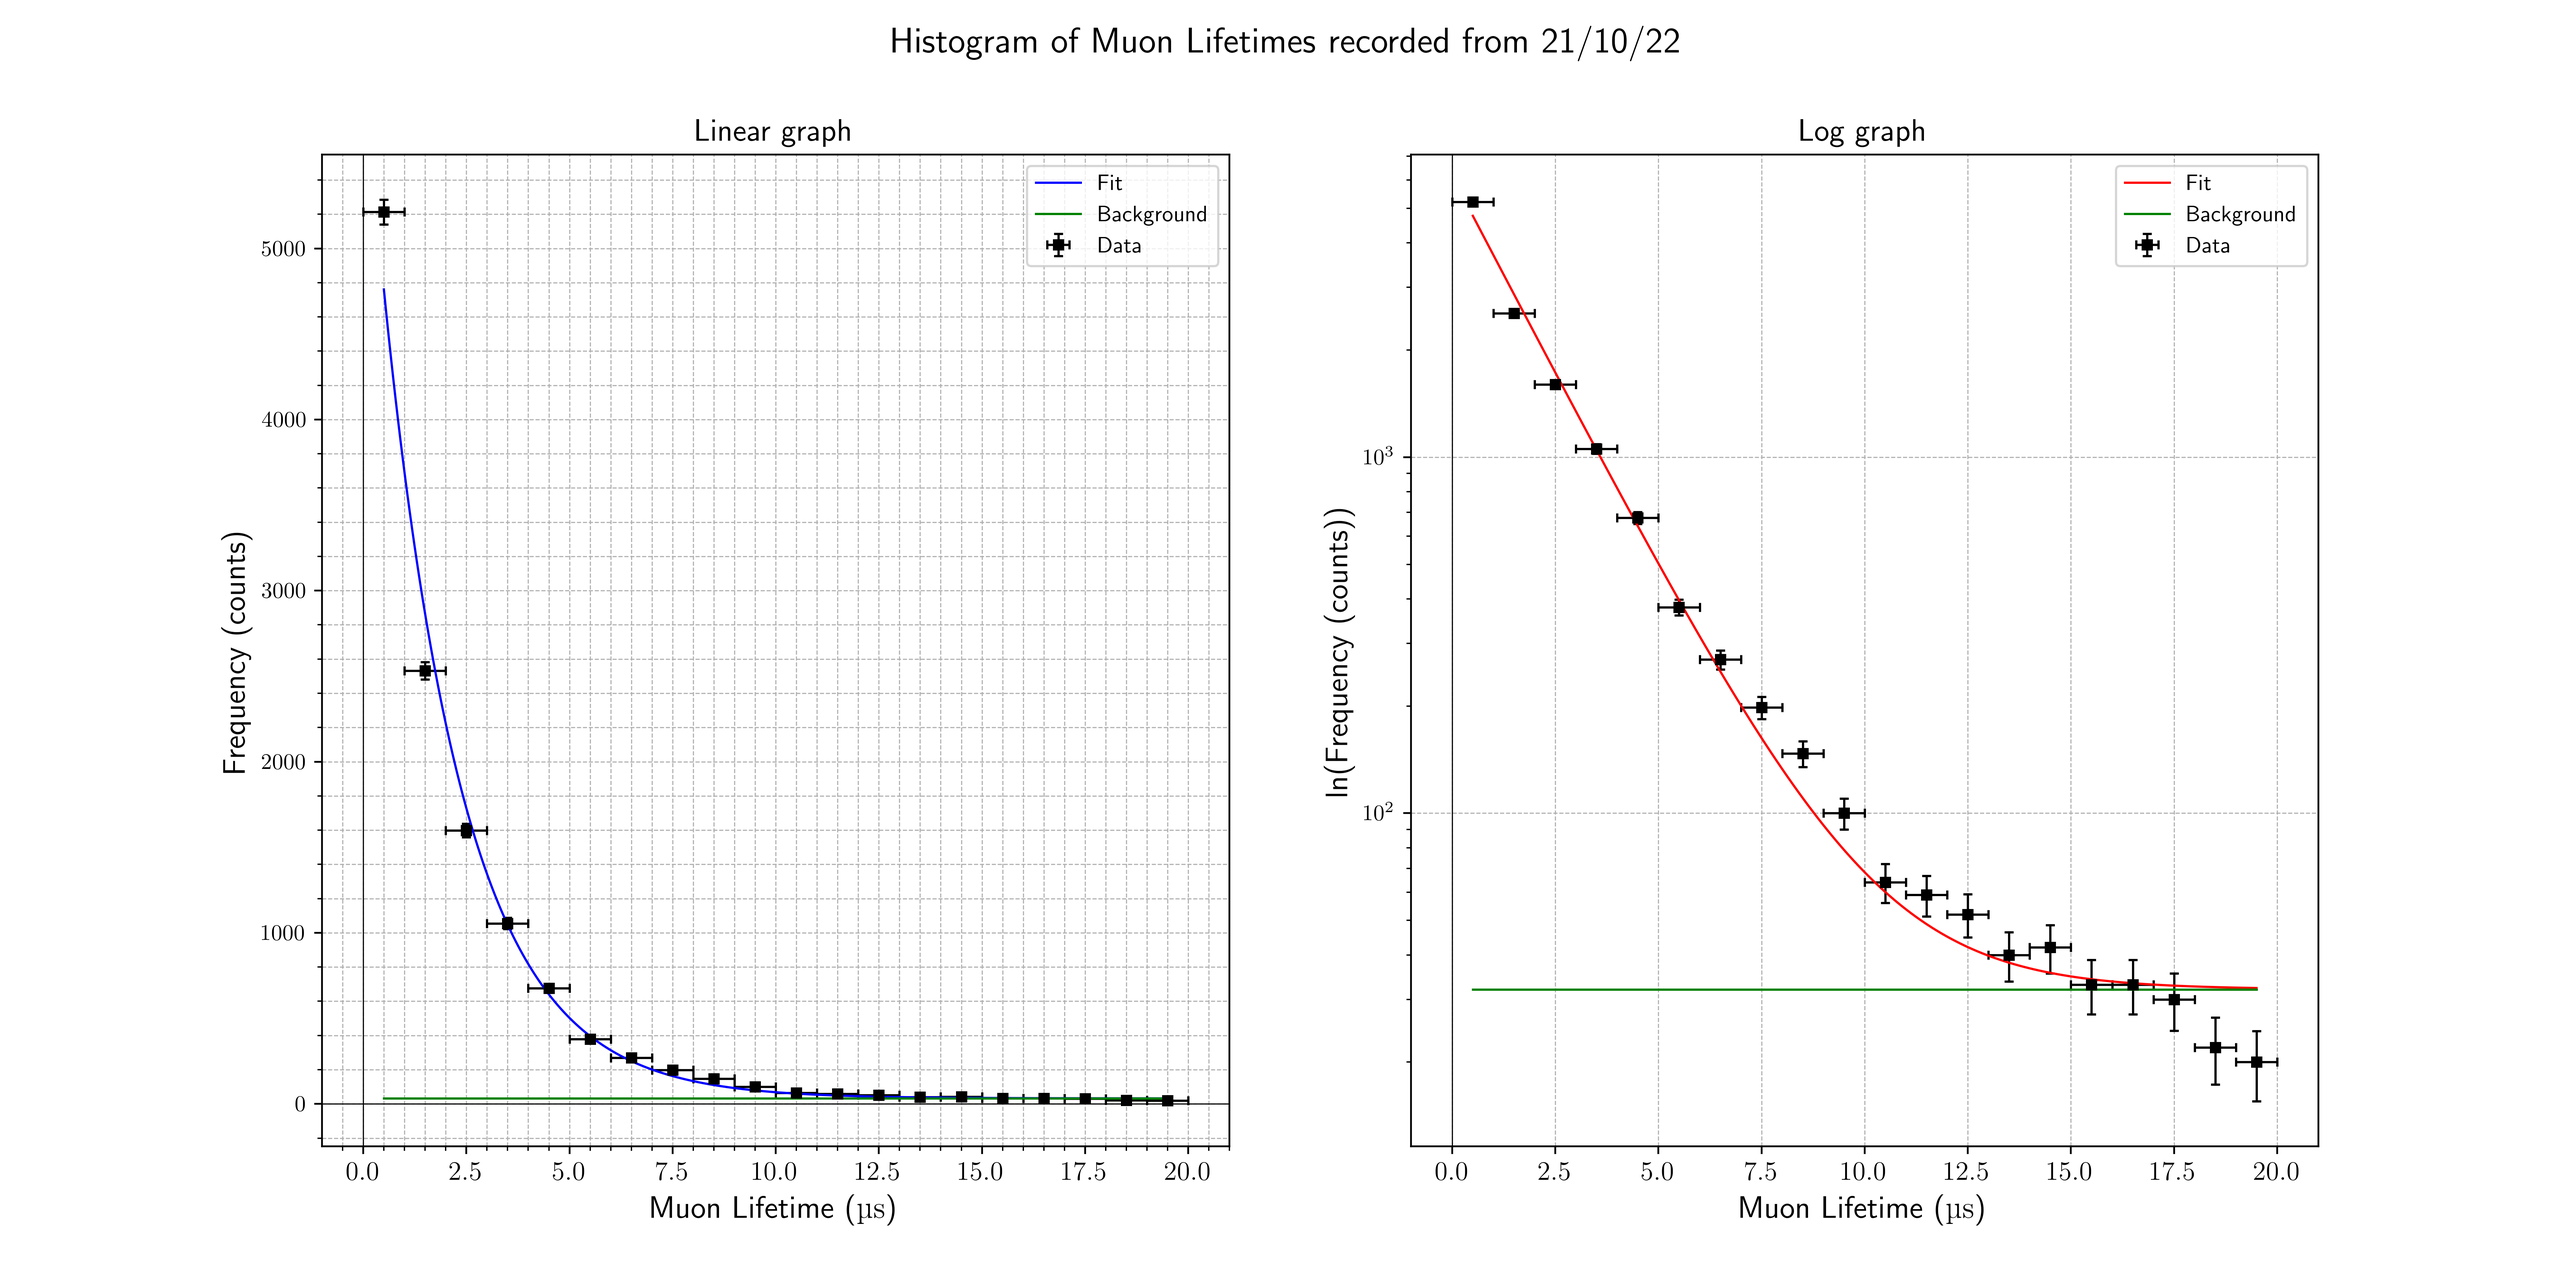
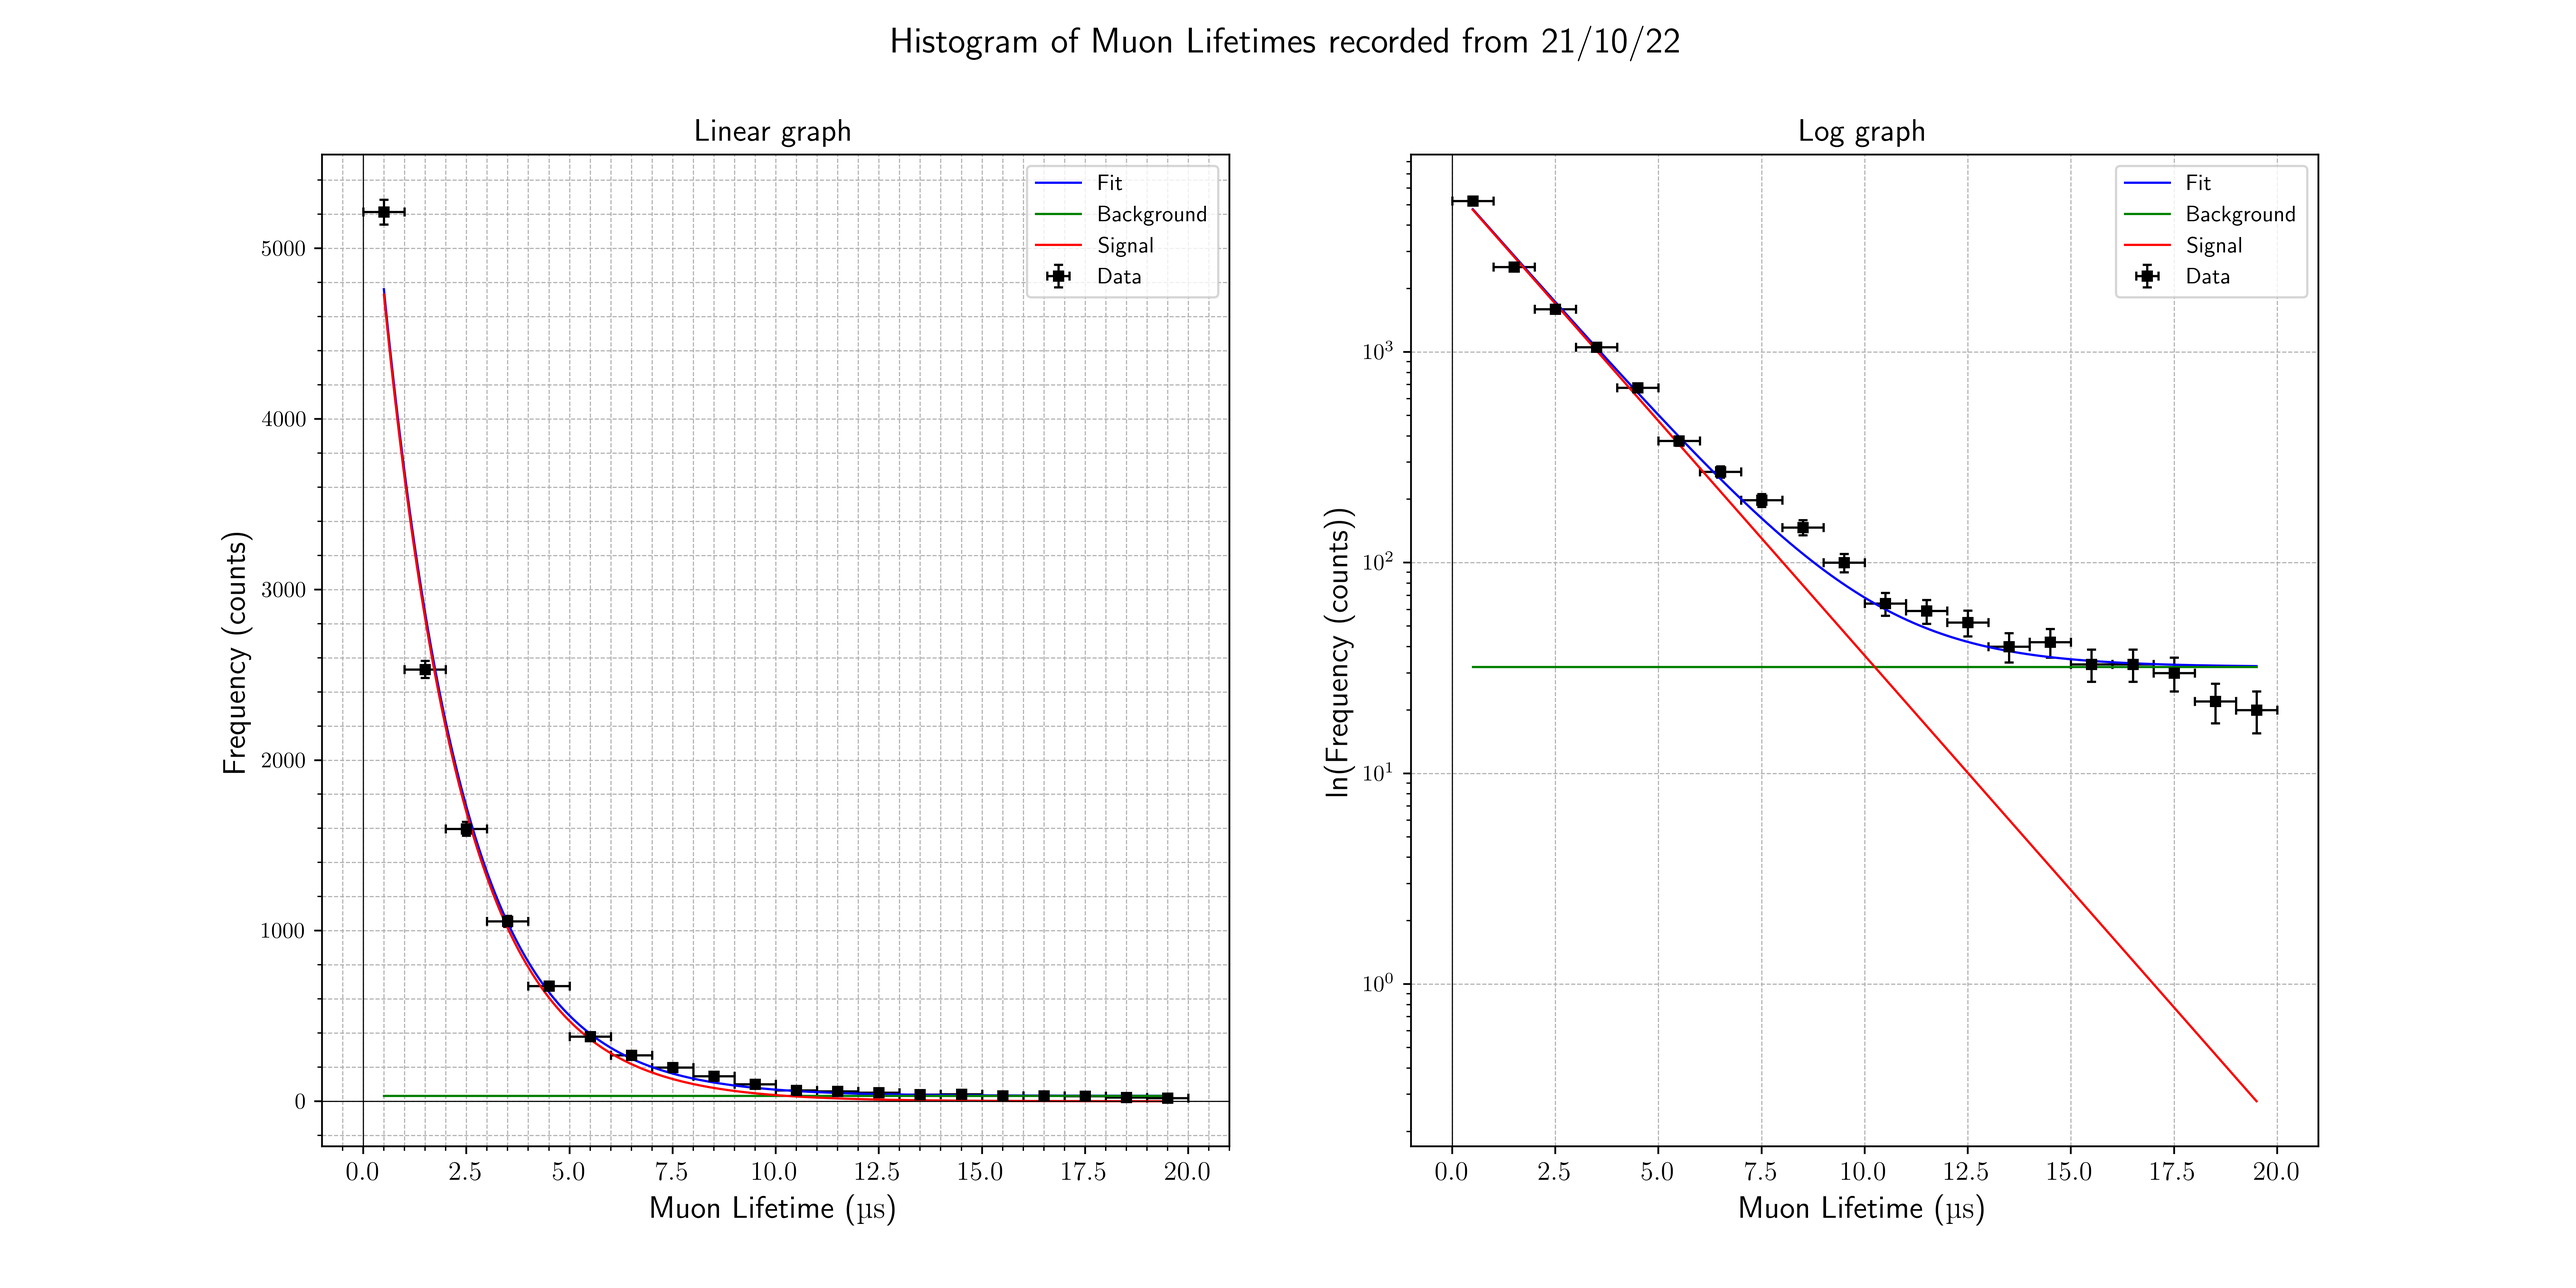
update

diff --git a/N3_Code.py b/N3_Code.py
@@ -1,5 +1,6 @@
 import numpy as np
 import matplotlib.pyplot as plt
+from matplotlib.widgets import CheckButtons
 from scipy.optimize import curve_fit
 import tkinter as tk
 from tkinter import filedialog as fd
@@ -21,17 +22,17 @@ root.update()
 root.withdraw()
 root.iconify()
 
-xColumn = 1
-yColumn = 2
+x_column = 1
+y_column = 2
 include_x_errors = True
 include_y_errors = True
-xErrColumn = 0  # Specify the column containing the x errors
-yErrColumn = 3  # Specify the column containing the y errors
+x_err_column = 0  # Specify the column containing the x errors
+y_err_column = 3  # Specify the column containing the y errors
 header = (
     False  # Does your data file contain one of more header lines (e.g. column titles)
 )
 head_lines = 0  # Enter the number of header lines in your data file
-save_graph = True  # Enter True or False only (True if you wish to save the figure)
+save_graph = True  # True if you wish to save the figure, False if not
 CSV = False  # Is the data separated by commas (True if yes - e.g. a .csv file)
 
 fig_file = "figure.png"
@@ -46,18 +47,16 @@ def fit_function(t, A0, tau, B):
         fit_function.__code__.co_varnames
     )  # This extracts the names of the parameters from the function definition
 
-    return A0 * np.exp(-t / (tau)) + B  # This is the equation to be fitted to the data
+    return A0 * np.exp(-t / (tau)) + B
 
 
 guess = (
     1000,
     2.2,
     0,
-)  # This is the initial guess for the parameters of the fit function
+)
 
-fit_function(
-    1, *guess
-)  # This is needed to generate the arguments for the next bit
+fit_function(1, *guess)
 
 
 if len(args) - 1 != len(guess):
@@ -148,9 +147,7 @@ lines = 0
 for data_line in raw_data:
     lines += 1
 raw_data.seek(0)
-# print(lines)
 
-# Create an array to store all the time values
 times = np.zeros(lines)
 
 # Read the data: store all the time values in an array
@@ -175,20 +172,20 @@ if min(y) == 0:
 
 # converts the bin "edges" in x values that correspond to the centre of the bin
 x = edges[:-1].copy()
-binWidth = x[1] - x[0]
-x += binWidth / 2  # the x values are now the centre of the bin
+bin_width = x[1] - x[0]
+x += bin_width / 2  # the x values are now the centre of the bin
 
 # y and x are now arrays of the histogram values (y) and times in microseconds (x).
 
 
-xError = np.zeros(len(x))
-xError.fill(binWidth / 2)  # the x errors are half the bin width
-yError = np.sqrt(y)  # the errors in y are the square root of the number of counts
+x_error = np.zeros(len(x))
+x_error.fill(bin_width / 2)  # the x errors are half the bin width
+y_error = np.sqrt(y)  # the errors in y are the square root of the number of counts
 
 # Performs a fit calling the numpy polyfit function (polynomial order 1):
 # If y errors are included, they will be used as weights in the fit calculation:
 if include_y_errors:  # Are y errors are included?
-    para, covar = curve_fit(fit_function, x, y, p0=guess, sigma=yError)
+    para, covar = curve_fit(fit_function, x, y, p0=guess, sigma=y_error)
 else:
     para, covar = curve_fit(
         fit_function, x, y, p0=guess
@@ -199,7 +196,7 @@ errors = np.sqrt(np.diag(covar))  # This extracts the errors from the covariance
 x_fit = np.linspace(
     min(x), max(x), 1000
 )  # Creates an x array to be used for drawing the fitted curve
-y_fit = fit_function(x_fit, *para)  # Creates a y array containing the fitted curve
+y_fit = fit_function(x_fit, *para)
 
 print("Para:", para)
 
@@ -210,15 +207,15 @@ fig, ax = plt.subplots(1, 2, figsize=(16, 8))
 plt.rcParams["figure.dpi"] = 150  # Sets the resolution of the figure (dots per inch)
 
 fig.suptitle(
-    "Histogram of Muon Lifetimes recorded from 21/10/22",  #! Change date
+    "Histogram of Muon Lifetimes recorded from 21/10/22",  # ! Change date
     fontsize=16,
 )
 
 ax[0].errorbar(
     x,
     y,
-    yerr=yError,
-    xerr=xError,
+    yerr=y_error,
+    xerr=x_error,
     fmt="s",
     color="black",
     markersize=4,
@@ -227,30 +224,24 @@ ax[0].errorbar(
     label="Data",
 )
 
-Bvalues = np.full(len(x_fit), para[2])
+B_values = np.full(len(x_fit), para[2])
 
-ax[0].plot(x_fit, y_fit, "-", color="blue", linewidth=1, label="Fit")
-ax[0].plot(x_fit, Bvalues, "-", color="green", linewidth=1, label="Background")
+pl0_0 = ax[0].plot(x_fit, y_fit, "-", color="blue", linewidth=1, label="Fit")
+pl0_1 = ax[0].plot(x_fit, B_values, "-", color="green", linewidth=1, label="Background")
+pl0_2 = ax[0].plot(
+    x_fit, y_fit - B_values, "-", color="red", linewidth=1, label="Signal"
+)
+
+plots0 = [pl0_0, pl0_1, pl0_2]
+
+
 ax[0].axhline(y=0, linewidth=0.5, color="black")
 ax[0].axvline(x=0, linewidth=0.5, color="black")
-# plt.xlim(0,2.5)
-# plt.ylim(0,25)
 
 ax[0].set_ylabel("Frequency (counts)", fontsize=14)
 ax[0].set_xlabel(r"Muon Lifetime (\unit{\micro\second})", fontsize=14)
 
 ax[0].minorticks_on()
-# plt.text(
-#     7.5,
-#     95,
-#     "Here is some text on the graph",
-#     color="red",
-#     fontsize=10,
-#     weight="normal",
-#     fontstyle="italic",
-# )
-# ax[0].xticks(fontsize=12)
-# ax[0].yticks(fontsize=12)
 ax[0].tick_params(axis="x", labelsize=12)
 ax[0].set_title("Linear graph", fontsize=14)
 ax[0].legend()
@@ -262,11 +253,12 @@ ax[0].grid(
     linewidth=0.5,
 )
 
+
 ax[1].errorbar(
     x,
     y,
-    yerr=yError,
-    xerr=xError,
+    yerr=y_error,
+    xerr=x_error,
     fmt="s",
     color="black",
     markersize=4,
@@ -274,29 +266,16 @@ ax[1].errorbar(
     capsize=2,
     label="Data",
 )
-ax[1].plot(x_fit, y_fit, "-", color="red", linewidth=1, label="Fit")
-ax[1].plot(x_fit, Bvalues, "-", color="green", linewidth=1, label="Background")
+pl1_0 = ax[1].plot(x_fit, y_fit, "-", color="blue", linewidth=1, label="Fit")
+pl1_1 = ax[1].plot(x_fit, B_values, "-", color="green", linewidth=1, label="Background")
+pl1_2 = ax[1].plot(
+    x_fit, y_fit - B_values, "-", color="red", linewidth=1, label="Signal"
+)
 ax[1].set_yscale("log")
 ax[1].axhline(y=0, linewidth=0.5, color="black")
 ax[1].axvline(x=0, linewidth=0.5, color="black")
-# plt.xlim(0,2.5)
-# plt.ylim(0,25)
-
 ax[1].set_ylabel("ln(Frequency (counts))", fontsize=14)
 ax[1].set_xlabel(r"Muon Lifetime (\unit{\micro\second})", fontsize=14)
-
-
-# plt.text(
-#     7.5,
-#     95,
-#     "Here is some text on the graph",
-#     color="red",
-#     fontsize=10,
-#     weight="normal",
-#     fontstyle="italic",
-# )
-# ax[1].xticks(fontsize=12)
-# ax[1].yticks(fontsize=12)
 ax[1].tick_params(axis="x", labelsize=12)
 ax[1].set_title("Log graph", fontsize=14)
 ax[1].legend()
@@ -318,3 +297,5 @@ if save_graph:
 
 
 plt.show()
+
+# TODO Add checkboxes for different graphs
